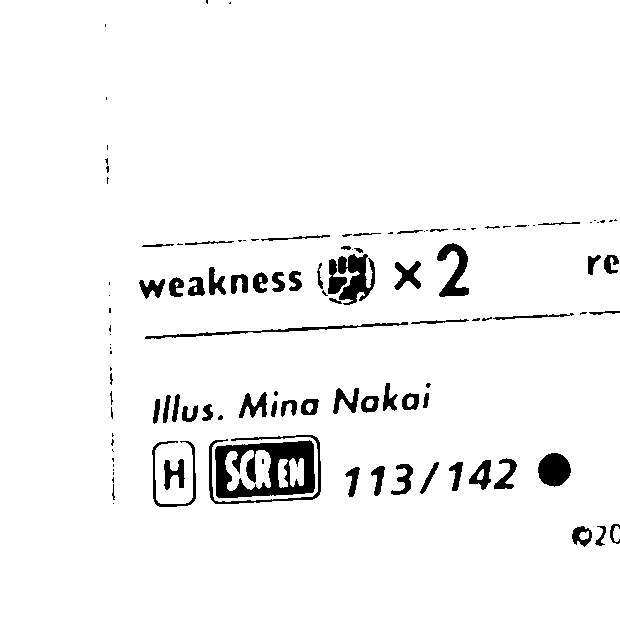
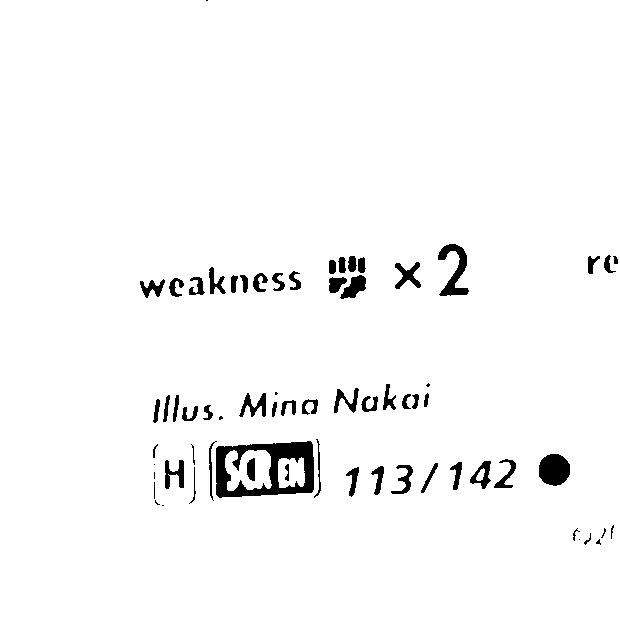
added final content from last day of assessment

diff --git a/flaskr/templates/cards.html b/flaskr/templates/cards.html
@@ -1,0 +1,15 @@
+<!DOCTYPE html>
+<html>
+<head>
+    <meta charset="utf-8">
+    <meta name="viewport" content="width=device-width, initial-scale=1">
+    <title>Your Cards</title>
+</head>
+<body>
+
+<h2>Cards List</h2>
+    {% for card in cards %}
+        <p>{{ card.cardName }} - {{ card.setName }}</p>
+    {% endfor %}
+</body>
+</html>

diff --git a/flaskr/Preprocess_image.py b/flaskr/Preprocess_image.py
@@ -10,18 +10,8 @@ file_name = ""
 
 
 def main():
-	add_image_process('Eevee.jpeg')
+	add_image_process('drifbloomMissingCorner.jpeg')
 
-		# ##Perhaps use .Canny() for cropping to edges
-		# img2 = cv2.imread(img_path, cv2.IMREAD_GRAYSCALE)
-		# print("Image shape:", img2.shape)
-		# print("Image dtype:", img2.dtype)
-		# img2 = img2.astype(np.uint8)
-		# edges = cv2.Canny(img2, 100, 200, 3)
-		# plt.subplot(122), plt.imshow(edges, cmap='gray')
-		# plt.title('Edge Image'), plt.xticks([]), plt.yticks([])
-		#
-		# plt.show()
 
 def add_image_process(name):
 	global file_name
@@ -44,6 +34,9 @@ def find_largest_area(thresh, originalImg):
 
 	contours, hierarchy = cv2.findContours(thresh, cv2.RETR_EXTERNAL, cv2.CHAIN_APPROX_SIMPLE)
 
+	#Saving to showcase
+	drawn_image = originalImg.copy(); img_with_all_contours = cv2.drawContours(drawn_image, contours, -1, (0, 255, 0), 5); write_image_to_showcase("ImageWithAllContours", img_with_all_contours)
+
 	filtered = []
 	for c in contours:
 		area = cv2.contourArea(c)
@@ -59,16 +52,13 @@ def find_largest_area(thresh, originalImg):
 			xArea = area
 	filtered = [x]
 
-	drawn_image = originalImg.copy()
-	img_with_all_contours = cv2.drawContours(drawn_image, contours, -1, (0, 255, 0), 5)
-	write_image_to_showcase("ImageWithAllContours", img_with_all_contours)
-	img_with_contour = cv2.drawContours(drawn_image, filtered[0], -1, (0, 255, 0), 5)
-	write_image_to_showcase("ImageWithBigContour", img_with_contour)
+	#Saving to showcase
+	drawn_image = originalImg.copy(); img_with_contour = cv2.drawContours(drawn_image, filtered[0], -1, (0, 255, 0), 5); write_image_to_showcase("ImageWithBigContour", img_with_contour)
 
 	return crop_image_to_box(filtered, originalImg)
 
 def crop_image_to_box(filtered, originalImg):
-
+	# Could use .Canny() for cropping to edges
 	rect = cv2.minAreaRect(filtered[0])
 	box = cv2.boxPoints(rect)
 
@@ -76,20 +66,18 @@ def crop_image_to_box(filtered, originalImg):
 
 	cropped_to_card = four_point_transform(originalImg, pts)
 
-	write_image_to_showcase(4, cropped_to_card)
-	cv2.imwrite("../Output/FullImageCropped.png", cropped_to_card)
+	cv2.imwrite("../Output/FullImageCropped.png", cropped_to_card); write_image_to_showcase(4, cropped_to_card)
 
 	full_crop_no_colour = extract_colour(cropped_to_card)
-	write_image_to_showcase(5, full_crop_no_colour)
-	cv2.imwrite(f"Processed_Files/{file_name}", full_crop_no_colour)
+
+	cv2.imwrite(f"Processed_Files/{file_name}", full_crop_no_colour); write_image_to_showcase(5, full_crop_no_colour)
 
 	img = cropped_to_card
 
 	height = img.shape[0]
 	width = img.shape[1]
 	bottom_left_crop = img[height//2:, :width//2]
-	cv2.imwrite("Processed_Files/QuarterCropped.png", bottom_left_crop)
-	write_image_to_showcase(6, bottom_left_crop)
+	cv2.imwrite("Processed_Files/QuarterCropped.png", bottom_left_crop); write_image_to_showcase(6, bottom_left_crop)
 
 	bottom_left_crop_no_colour = extract_colour(bottom_left_crop)
 	write_image_to_showcase(7, bottom_left_crop_no_colour)
@@ -97,8 +85,7 @@ def crop_image_to_box(filtered, originalImg):
 	height = bottom_left_crop.shape[0]
 	width = bottom_left_crop.shape[1]
 	cropped_final = bottom_left_crop[height//2:, :width//2]
-	write_image_to_showcase(8, cropped_final)
-	cv2.imwrite("../Output/FinalZoom.png", cropped_final)
+	cv2.imwrite("../Output/FinalZoom.png", cropped_final); write_image_to_showcase(8, cropped_final)
 
 	cropped_final_no_colour = extract_colour(cropped_final)
 	write_image_to_showcase(9, cropped_final_no_colour)

diff --git a/flaskr/Process_Text.py b/flaskr/Process_Text.py
@@ -38,7 +38,7 @@ def find_card(set_name, card_number):
         left_number = int(split_numbers[0])
         right_number = split_numbers[1]
     else:
-        left_number = card_number.lstrip("0")
+        left_number = int(card_number)
 
     if set_name == "":
         cards = Card.where(q=f'set.printedTotal:{right_number} number:{left_number}')
@@ -47,22 +47,57 @@ def find_card(set_name, card_number):
     card = cards[0]
     price = card.tcgplayer.prices
     prices = []
+
     if price.normal is not None:
-        prices.append(f"<p>Normal: {price.normal.market}</p><button id=normal>Add to your collection</button>")
+        prices.append(f"""
+        <form action="/addCard" method="POST">
+            <input type=hidden name="card_name" value="{card.name}">
+            <input type=hidden name="set_name" value="{card.set.name}">
+            <input type=hidden name="rarity" value="Normal">
+            <p>Normal: {price.normal.market}</p>
+            <button type="submit">Add to your collection</button>
+        </form>""")
     if price.holofoil is not None:
-        prices.append(f"<p>Holofoil: {price.holofoil.market}</p><button id=holofoil>Add to your collection</button>")
+        prices.append(f"""
+        <form action="/addCard" method="POST">
+            <input type=hidden name="card_name" value="{card.name}">
+            <input type=hidden name="set_name" value="{card.set.name}">
+            <input type=hidden name="rarity" value="Holofoil">
+            <p>Holofoil: {price.holofoil.market}</p>
+            <button type="submit">Add to your collection</button>
+        </form>""")
     if price.reverseHolofoil is not None:
-        prices.append(f"<p>Reverse Holofoil: {price.reverseHolofoil.market}</p><button id=reverseHolofoil>Add to your collection</button>")
+        prices.append(f"""
+        <form action="/addCard" method="POST">
+            <input type=hidden name="card_name" value="{card.name}">
+            <input type=hidden name="set_name" value="{card.set.name}">
+            <input type=hidden name="rarity" value="Reverse Holofoil">
+            <p>Reverse Holofoil: {price.reverseHolofoil.market}</p>
+            <button type="submit">Add to your collection</button>
+        </form>""")
+
     s = "".join(prices)
     #add css?\zoom in effect
     return f'''
     <!doctype html>
     <link rel="stylesheet" href = "style.css">
     <h1>{card.name}</h1>
-    <img src={card.images.small}>
+    <img src={card.images.small} id="cardImage">
     <br>
+     <img src={card.set.images.logo} width=150 height=50>
+     <br>
     <h2>Prices:</h2>
     <span>{s}</span>
+    <script>
+        let cardImage = document.getElementById('cardImage');
+            cardImage.addEventListener('click', function() {{
+            if (cardImage.src === "{card.images.small}") {{
+                cardImage.src = "{card.images.large}";
+            }} else {{
+                cardImage.src = "{card.images.small}";
+            }}
+        }});
+    </script>
     '''
 if __name__ == '__main__':
     main()

diff --git a/flaskr/__init__.py b/flaskr/__init__.py
@@ -4,6 +4,20 @@ from flask import Flask
 from .BasicImageRead import *
 from .Preprocess_image import main as main2
 from .Preprocess_image import *
+from flask_sqlalchemy import SQLAlchemy
+from sqlalchemy.orm import DeclarativeBase
+from sqlalchemy import Integer, String
+from sqlalchemy.orm import Mapped, mapped_column
+
+class Base(DeclarativeBase):
+  pass
+
+db = SQLAlchemy(model_class=Base)
+
+class Cards(db.Model):
+    id: Mapped[int] = mapped_column(primary_key=True, autoincrement=True)
+    cardName: Mapped[str] = mapped_column(unique=False)
+    setName: Mapped[str] = mapped_column(unique=False)
 
 def create_app(test_config=None):
     # create and configure the app
@@ -12,7 +26,12 @@ def create_app(test_config=None):
         SECRET_KEY='dev',
         DATABASE=os.path.join(app.instance_path, 'flaskr.sqlite'),
         UPLOAD_FOLDER='flaskr/User_Files/',
+        SQLALCHEMY_DATABASE_URI = 'sqlite:///project.db',
+        TEMPLATE_FOLDER = 'flaskr/templates/'
     )
+    db.init_app(app)
+    with app.app_context():
+        db.create_all()
 
     if test_config is None:
         # load the instance config, if it exists, when not testing
@@ -30,4 +49,9 @@ def create_app(test_config=None):
     from .Upload_Image import upload
     app.register_blueprint(upload)
 
+    from .database import database
+    app.register_blueprint(database)
+
     return app
+
+

diff --git a/flaskr/database.py b/flaskr/database.py
@@ -1,0 +1,24 @@
+from flask import flash, request, redirect, Blueprint, current_app, render_template
+from sqlalchemy.orm import DeclarativeBase
+from flask_sqlalchemy import SQLAlchemy
+from flaskr import *
+
+
+database = Blueprint('database', __name__)
+
+@database.route("/cards")
+def cards_list():
+    cards = Cards.query.all()
+    return render_template("cards.html", cards=cards)
+
+@database.route("/addCard", methods=['POST'])
+def add_card():
+    card_name = request.form.get("card_name")
+    set_name = request.form.get("set_name")
+    card = Cards(
+      cardName = card_name,
+      setName = set_name,
+    )
+    db.session.add(card)
+    db.session.commit()
+    return redirect("http://127.0.0.1:5000/cards")

diff --git a/flaskr/BasicImageRead.py b/flaskr/BasicImageRead.py
@@ -10,7 +10,6 @@ def main(file_path):
 
 def load_image(img):
     image_cv = img
-    #cv2.imread(fr'C:\Users\James.Goulding\PycharmProjects\PokemonProject\flaskr\{name}'))
     return process_image(image_cv)
 
 def process_image(image_cv):
